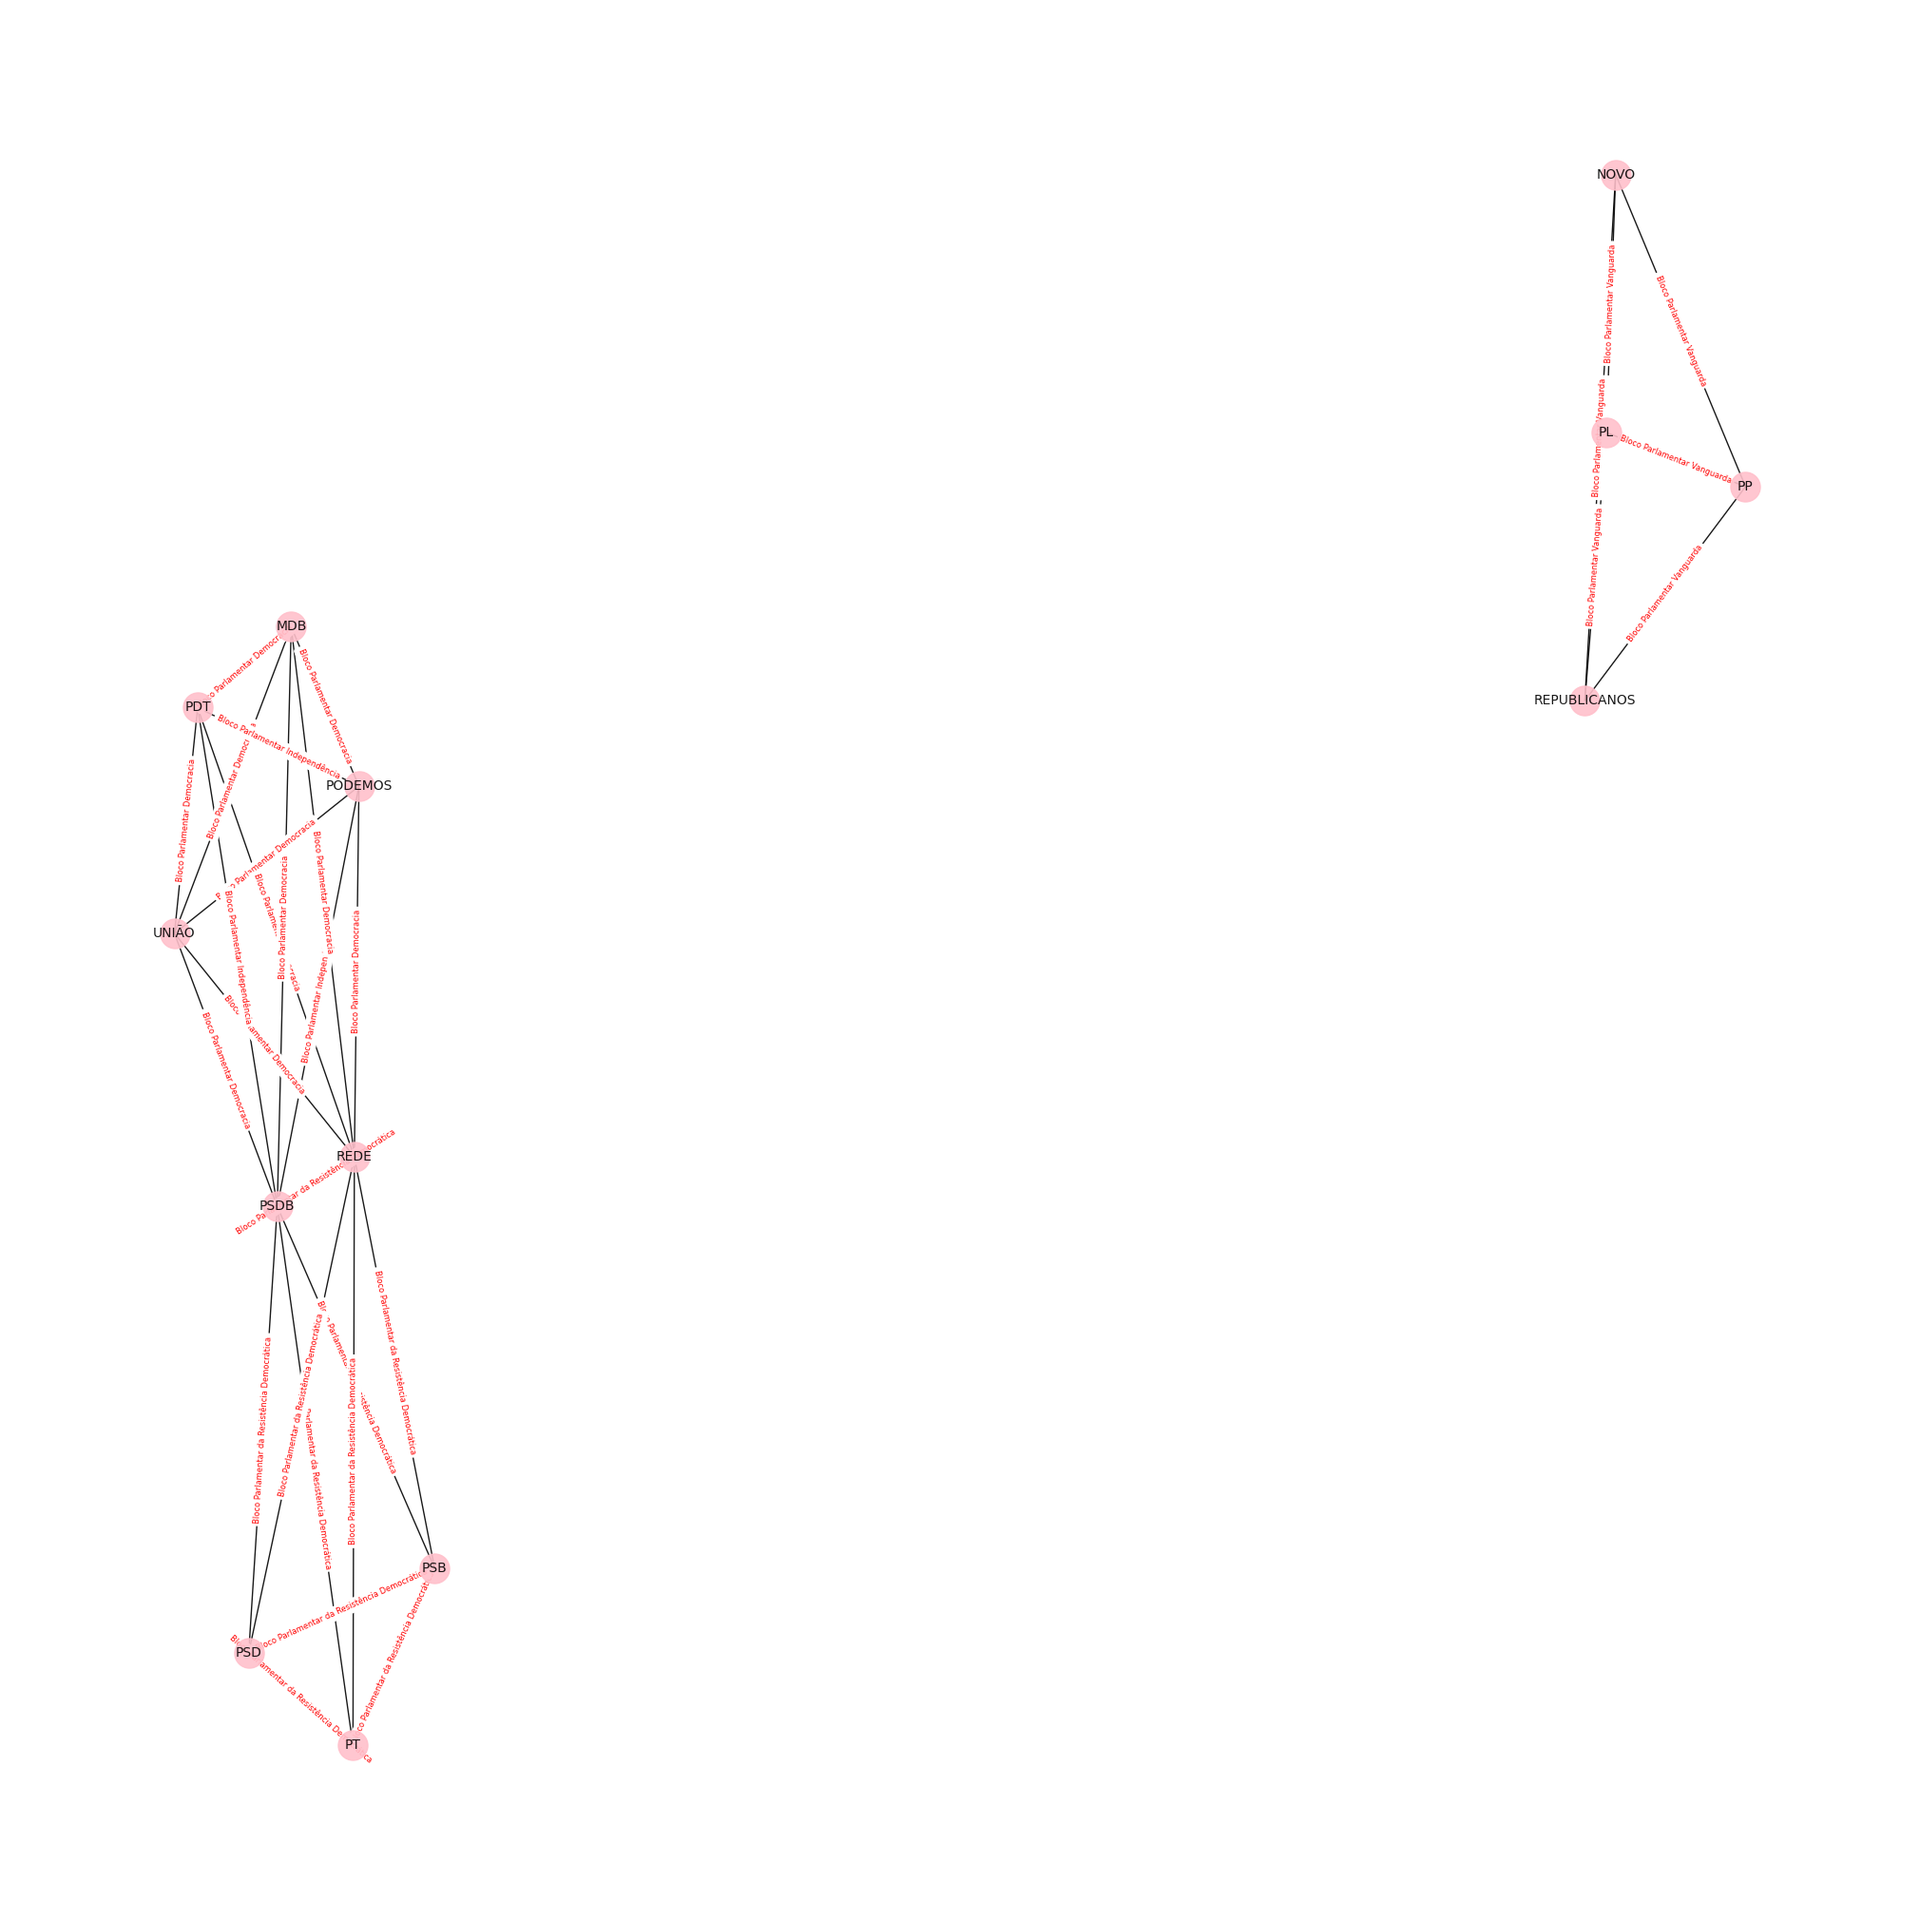
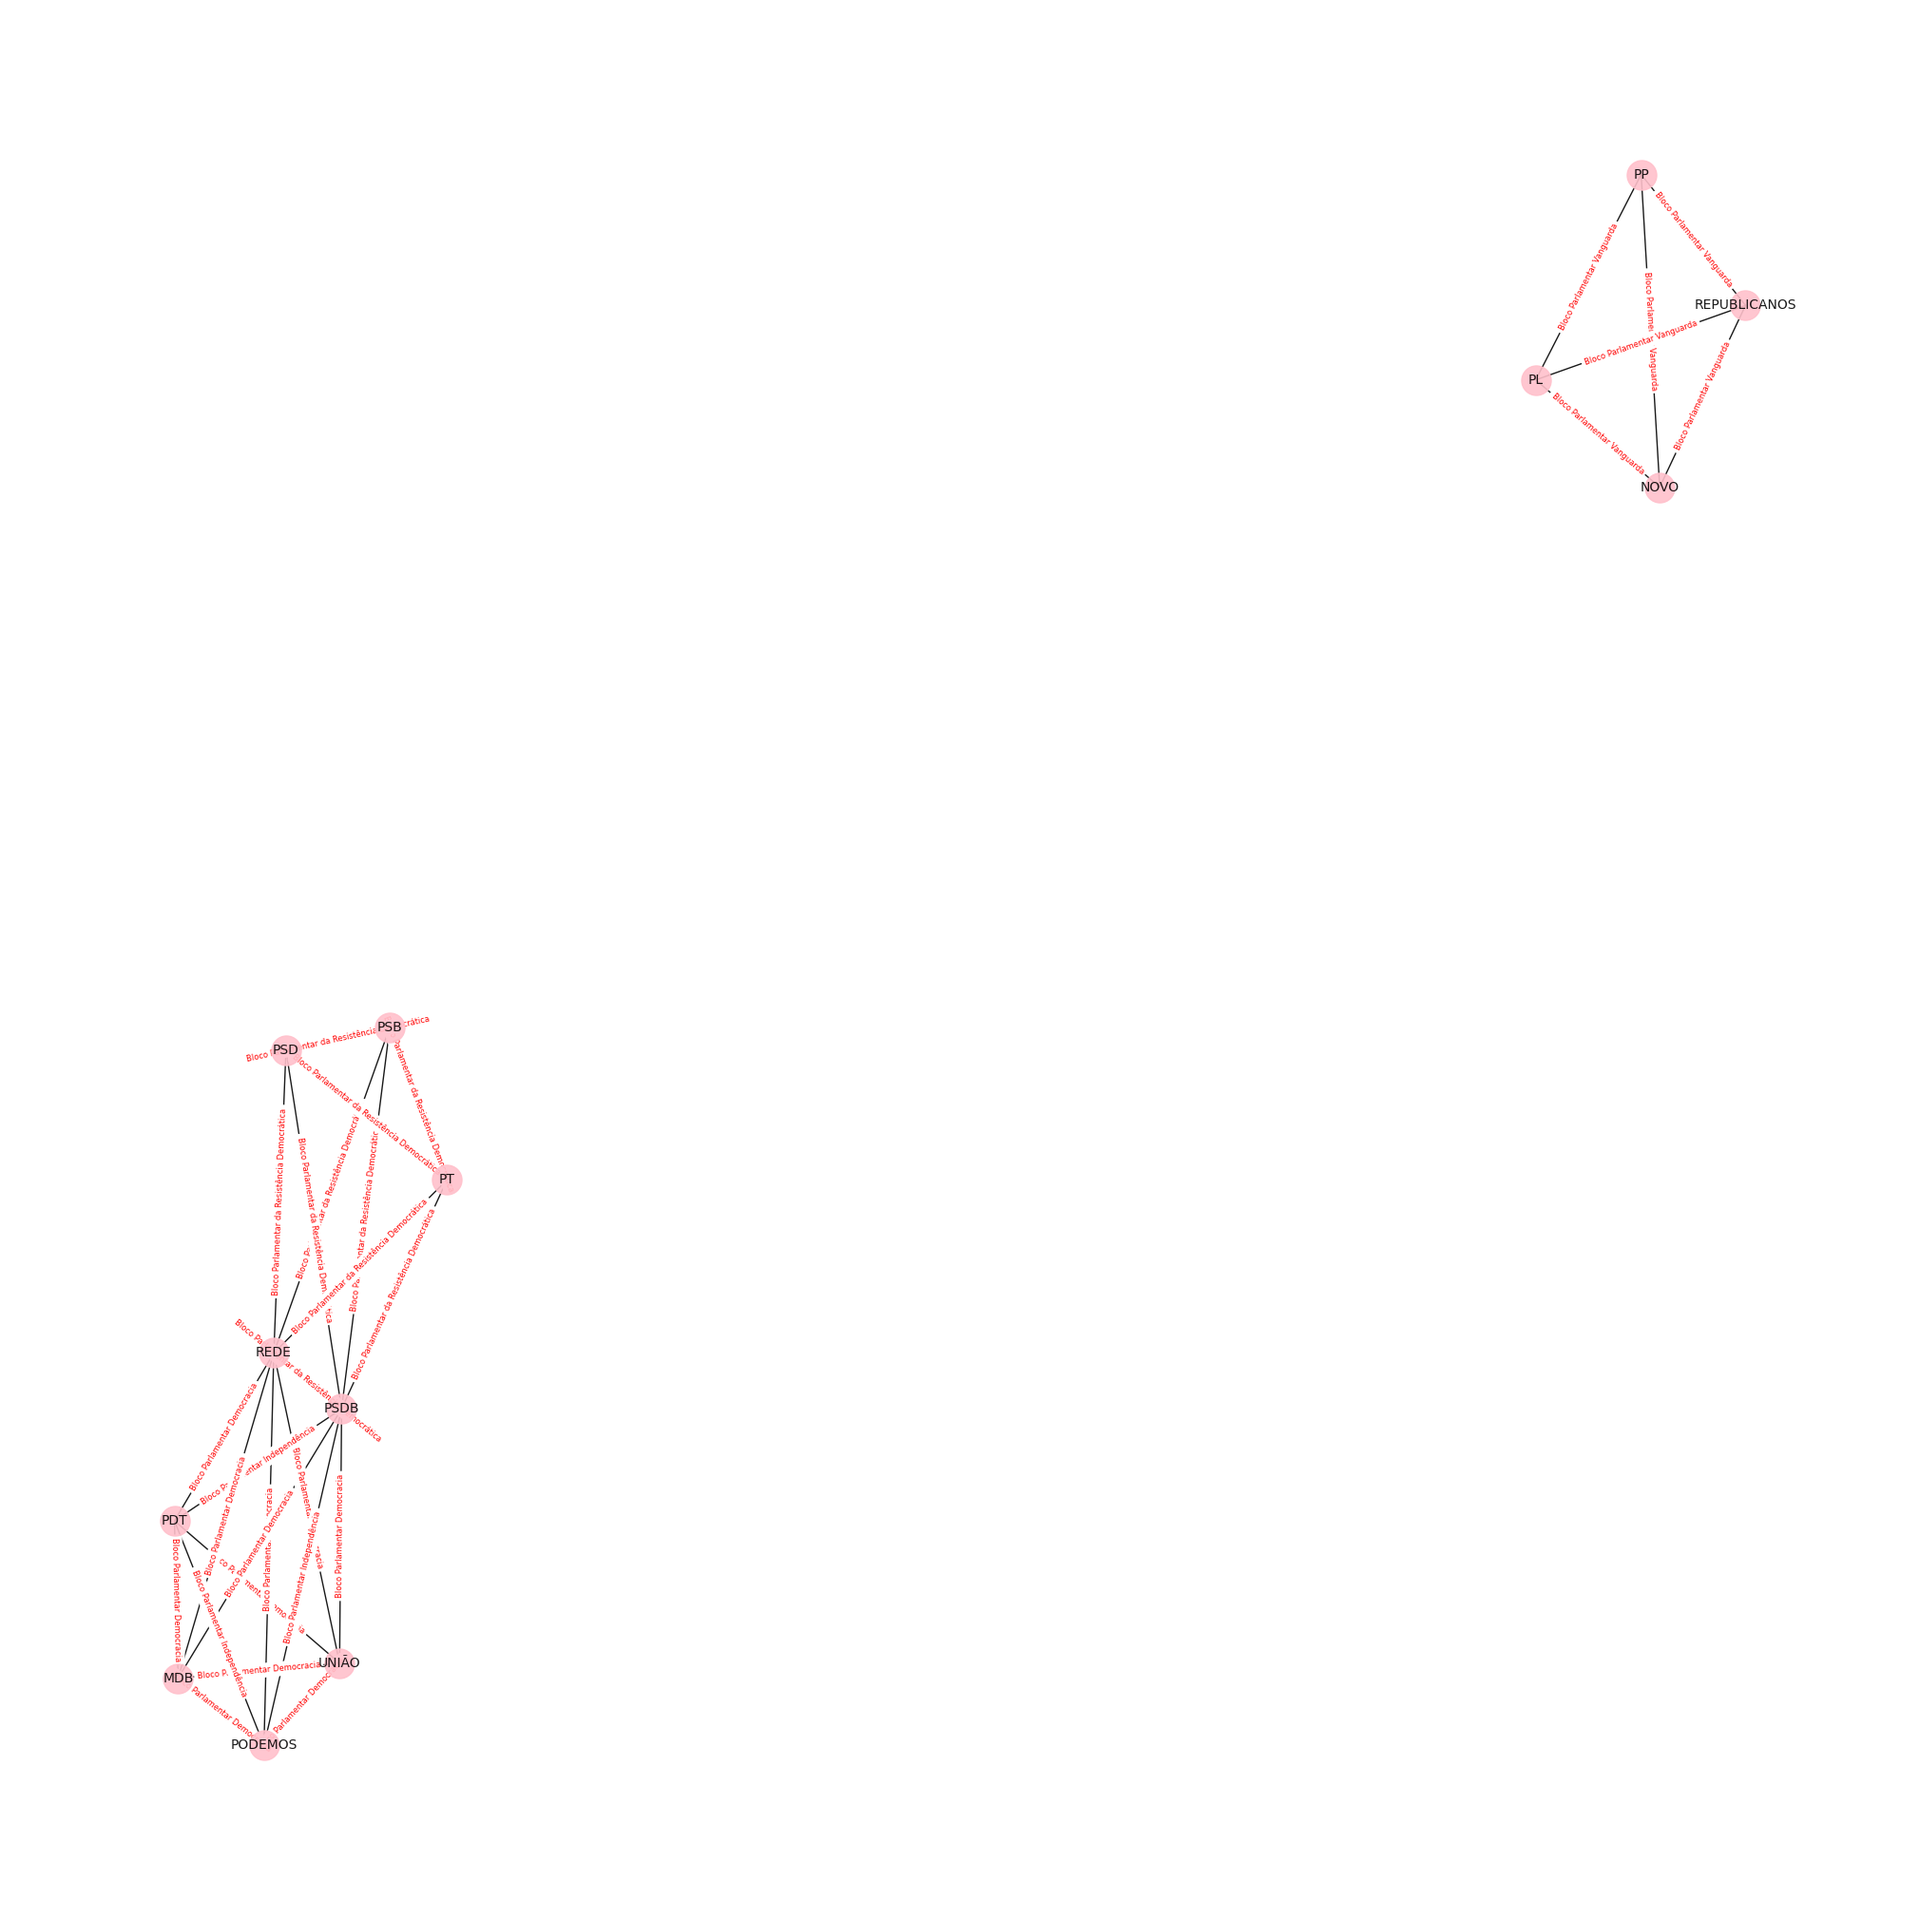
feat(readme): work in progress

diff --git a/README.md b/README.md
@@ -27,14 +27,26 @@
 
 4. Análises
 
-- **Histogramas que mostram a porcentagem de matérias legislativas feitas pelos congressistas:**
-  -Pode-se analisar a baixa adesão dos congressistas (senadores e deputados) com relação ao trabalho de autoria e relatoria de matérias legislativas no congresso.
-  ![Matérias Legislativas por senadores](histograma_congressistas.png)
+**Histogramas que mostram a porcentagem de matérias legislativas feitas pelos congressistas:**
+-Pode-se analisar a baixa adesão dos congressistas (senadores e deputados) com relação ao trabalho de autoria e relatoria de matérias legislativas no congresso.
+![Matérias Legislativas por senadores](histograma_congressistas.png)
 
-- **Histograma que mostra o número de senadores por cada partido**
-  -Pode-se analisar que o partido que possui maior influência no senado é o PSD.
-  ![Senadores por partido](senadores_por_partido.png)
+**Histograma que mostra o número de senadores por cada partido**
+-Pode-se analisar que o partido que possui maior influência no senado é o PSD.
+![Senadores por partido](senadores_por_partido.png)
 
-- **Histograma que mostra a quantidade de matérias legislativas por partido**
-  -Pode-se analisar que os partidos que mais participam dessa atividade são PL, PT e PSD.
-  ![Matérias Legislativas por partido](materias_legislativas_por_partido.png)
+**Histograma que mostra a quantidade de matérias legislativas por partido**
+-Pode-se analisar que os partidos que mais participam dessa atividade são PL, PT e PSD.
+![Matérias Legislativas por partido](materias_legislativas_por_partido.png)
+
+**Histograma que mostra o número de assuntos específicos para cada assunto geral discutido no congresso**
+-Pode-se analisar que o assunto com mais desdobramentos é o econômico.
+![Assuntos especificos](assuntos_especificos_por_geral.png)
+
+**Grafo de proximidade que mostra os partidos mais relacionados com base em blocos políticos no congresso**
+-Pode-se analisar nesse grafo a proximidade dos partidos de esquerda e direita como dois grafos separados, em que os vértices representam o bloco que os partidos se ligam e os nós a sigla do partido.
+![Blocos Políticos](grafo_proximidade.png)
+
+**Histograma com a participação dos partidos nas votações de matérias legislativas em 2024**
+-Pode-se analisar que todos os partidos tem uma participação relevante nas votações, acima de 90%, sendo os partidos NOVO, PSB, PSDB e REPUBLICANOS os que acumulam 100% de participação.
+![Participação em votação](porcentagem_participacao_partido.png)
